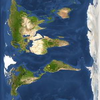
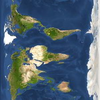
add start in angle

diff --git a/main.py b/main.py
@@ -1,21 +1,26 @@
 import matplotlib.pyplot as plt
 import numpy as np
 import PIL
+import utm
 import matplotlib.animation as animation
 from vectors import Vector
 import math
 
+def rotation(x, y, a):
+    a = math.radians(a)
+    x2 = x * round(math.cos(a), 5) - y * math.sin(a)
+    y2 = x * math.sin(a) + y * round(math.cos(a), 5)
+    return (x2, y2)
 class Earth:
     def __init__(self):
-        self.poligons = 100
+        self.poligons = 200
         self.R = 6371 * 1000
         self.R_atm = 6489
         self.mass = 5.972 * (10 ** 24)
-        print(self.mass, "M")
         self.g = 9.8
 
     def create(self):
-        u = np.linspace(0, 2 * np.pi, self.poligons)
+        u = np.linspace(-np.pi, np.pi, self.poligons)
         v = np.linspace(0, np.pi, self.poligons)
 
         x = self.R * np.outer(np.cos(u), np.sin(v))
@@ -23,7 +28,6 @@ class Earth:
         z = self.R * np.outer(np.ones(np.size(u)), np.cos(v))
 
         im = PIL.Image.open('min_earth.png')
-        print(im.size)
         im = np.array(im.resize([self.poligons, self.poligons])) / 255
 
         ax.plot_surface(x, y, z, rstride=4, cstride=4, facecolors=im, antialiased=True, shade=False)
@@ -40,50 +44,40 @@ class Earth:
 
 
 class Satellite:
-    def __init__(self):
-        self.hight = 200 * 1000
-        self.x = earth.R + self.hight
-        self.y = earth.R + self.hight
-        self.z = earth.R + self.hight
-        print(self.x, self.y, self.z)
+    def __init__(self, latitude, longitude):
+        self.hight = 1000 * 1000
+
+        x = earth.R + self.hight
+        y = 0
+        z = 0
+        self.x = -earth.R - self.hight
+        self.y = 0
+        self.z = 0
+
+        self.x, self.z = rotation(x, z, latitude)
+        self.x, self.y = rotation(self.x, y, longitude)
+
+        print(x, y, z, "coordsNON")
+        print(self.x, self.y, self.z, "coords")
         self.position = [self.x, self.y, self.z]
         self.velocity = 1000
         self.mass = 100
         self.direction = np.array([1, 0, 0])
 
-    def create(self, i):
-        r = math.sqrt(self.x ** 2 + self.y ** 2 + self.z ** 2)
-        direction_earth = np.array([0 - self.x, 0 - self.y, 0 - self.z])
-        direction_earth = direction_earth / np.linalg.norm(direction_earth)
-        direction = self.direction / np.linalg.norm(self.direction)
-        F = self.mass * earth.g #G * ((self.mass * earth.mass) / (r ** 2))
-        f = self.velocity * self.mass
-        #print(r)
-        self.direction = [(direction_earth[0] * F + direction[0] * f) / 2, (direction_earth[0] * F + direction[0] * f) / 2, (direction_earth[2] * F + direction[2] * f) / 2]
-        print(self.direction)
-        x2 = self.x + (direction_earth[0] * F + direction[0] * f) / 2
-        y2 = self.y + (direction_earth[1] * F + direction[1] * f) / 2
-        z2 = self.z + (direction_earth[2] * F + direction[2] * f) / 2
-        self.x = x2
-        self.y = y2
-        self.z = z2
-        self.position = [self.x, self.y, self.z]
-        ax.scatter(x2, y2, z2, color="red")
+    def create(self):
+        ax.scatter(self.x, self.y, self.z, color="red")
 
 fig = plt.figure()
 ax = fig.add_subplot(111, projection='3d')
 
 G = 6.6743015 * (10**(-11))
-print(G, "---------G")
 
 earth = Earth()
-satellite = Satellite()
+satellite = Satellite(90, 90)
 
 earth.create()
 #planet.create_atmosphere()
 
-def animate(i):
-    satellite.create(i)
+satellite.create()
 
-ani = animation.FuncAnimation(fig, animate, interval=0)
 plt.show()
